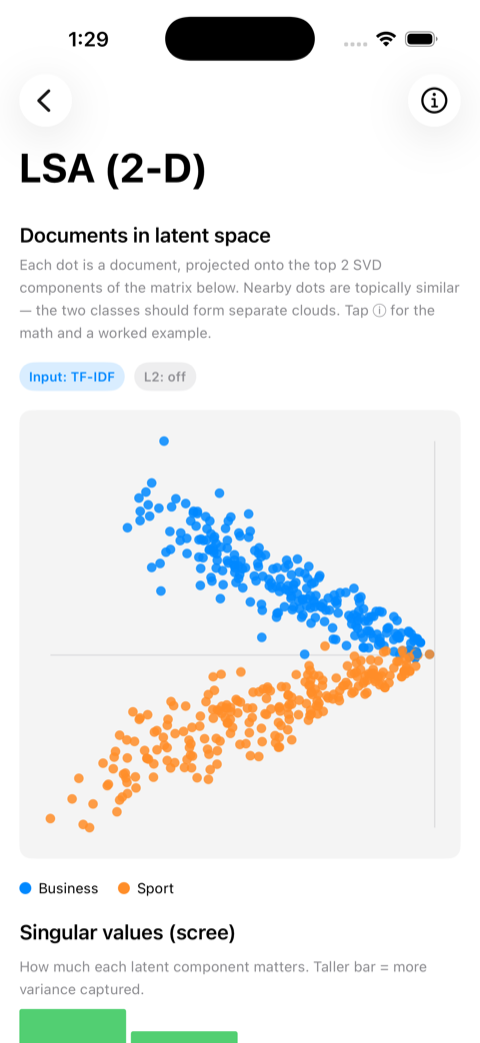
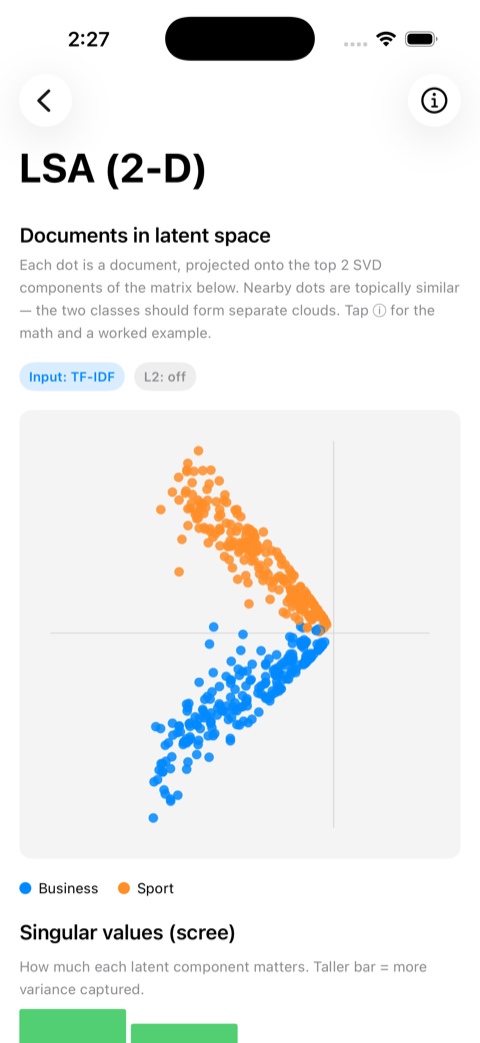
Refresh README screenshots for the new dataset and add a live-classify shot

diff --git a/README.md b/README.md
@@ -22,10 +22,11 @@ stage, and drill into the data representation at that point in the pipeline:
 |---|---|
 | <img src="screenshots/home.png" width="240" alt="Home menu"> | **Home** — pick a model family. *Bag of Words* walks the text‑representation stages; *Bag‑of‑Words + Regression* trains a classifier on top. The greyed‑out rows are placeholders for models added later. |
 | <img src="screenshots/matrix.png" width="240" alt="Document-Term matrix heatmap"> | **Document‑Term Matrix** — 500 documents × 150 terms drawn as a heatmap, one row per document, grouped by class. Toggle **Raw counts ⇄ TF‑IDF** and **L2‑normalize** and watch the cells re‑weight: ubiquitous words dim, rare telling words brighten. |
-| <img src="screenshots/lsa.png" width="240" alt="LSA 2-D scatter"> | **LSA projection** — every document compressed to its top‑2 latent components (truncated SVD) and plotted as a point. The two classes fall into two separated clouds, which is exactly what makes them linearly separable. |
+| <img src="screenshots/lsa.png" width="240" alt="LSA 2-D scatter"> | **LSA projection** — every document compressed to its top‑2 latent components (truncated SVD) and plotted as a point. The documents fan out into two separate arms (a “V”), so the two classes are clearly — and linearly — separable. |
 | <img src="screenshots/classifier.png" width="240" alt="Decision boundary"> | **Classifier** — fit **Logistic / Linear / SVM** on the 2‑D LSA points and see the decision boundary `wᵀx + b = 0` drawn through the data. Drag the learning‑rate, iterations, and regularization sliders to see the line move. |
-| <img src="screenshots/training.png" width="240" alt="Step-by-step training"> | **Training, step by step** — the boundary starts as an *arbitrary* random line (here: 48% accuracy). Press play or scrub the slider to replay gradient descent iteration‑by‑iteration and watch the line rotate into place as the accuracy climbs. |
-| <img src="screenshots/metrics.png" width="240" alt="Accuracy and confusion matrix"> | **Evaluation** — train/test accuracy on a held‑out split, a colour‑coded confusion matrix, and a **“classify your own sentence”** box that runs your text through the whole pipeline and drops it onto the scatter. |
+| <img src="screenshots/training.png" width="240" alt="Step-by-step training"> | **Training, step by step** — the boundary starts as an *arbitrary* random line (here: 59% accuracy). Press play or scrub the slider to replay gradient descent iteration‑by‑iteration and watch the line rotate into place as the accuracy climbs. |
+| <img src="screenshots/metrics.png" width="240" alt="Accuracy and confusion matrix"> | **Evaluation** — train/test accuracy on a held‑out split and a colour‑coded confusion matrix on documents the model never trained on. |
+| <img src="screenshots/classify.png" width="240" alt="Classify your own sentence"> | **Classify your own sentence** — type any sentence and it runs through the *whole* pipeline (tokenize → TF‑IDF → fold into the latent space → apply the boundary). The prediction and confidence appear, and the sentence is dropped onto the scatter as a ringed dot. |
 
 ---
 
